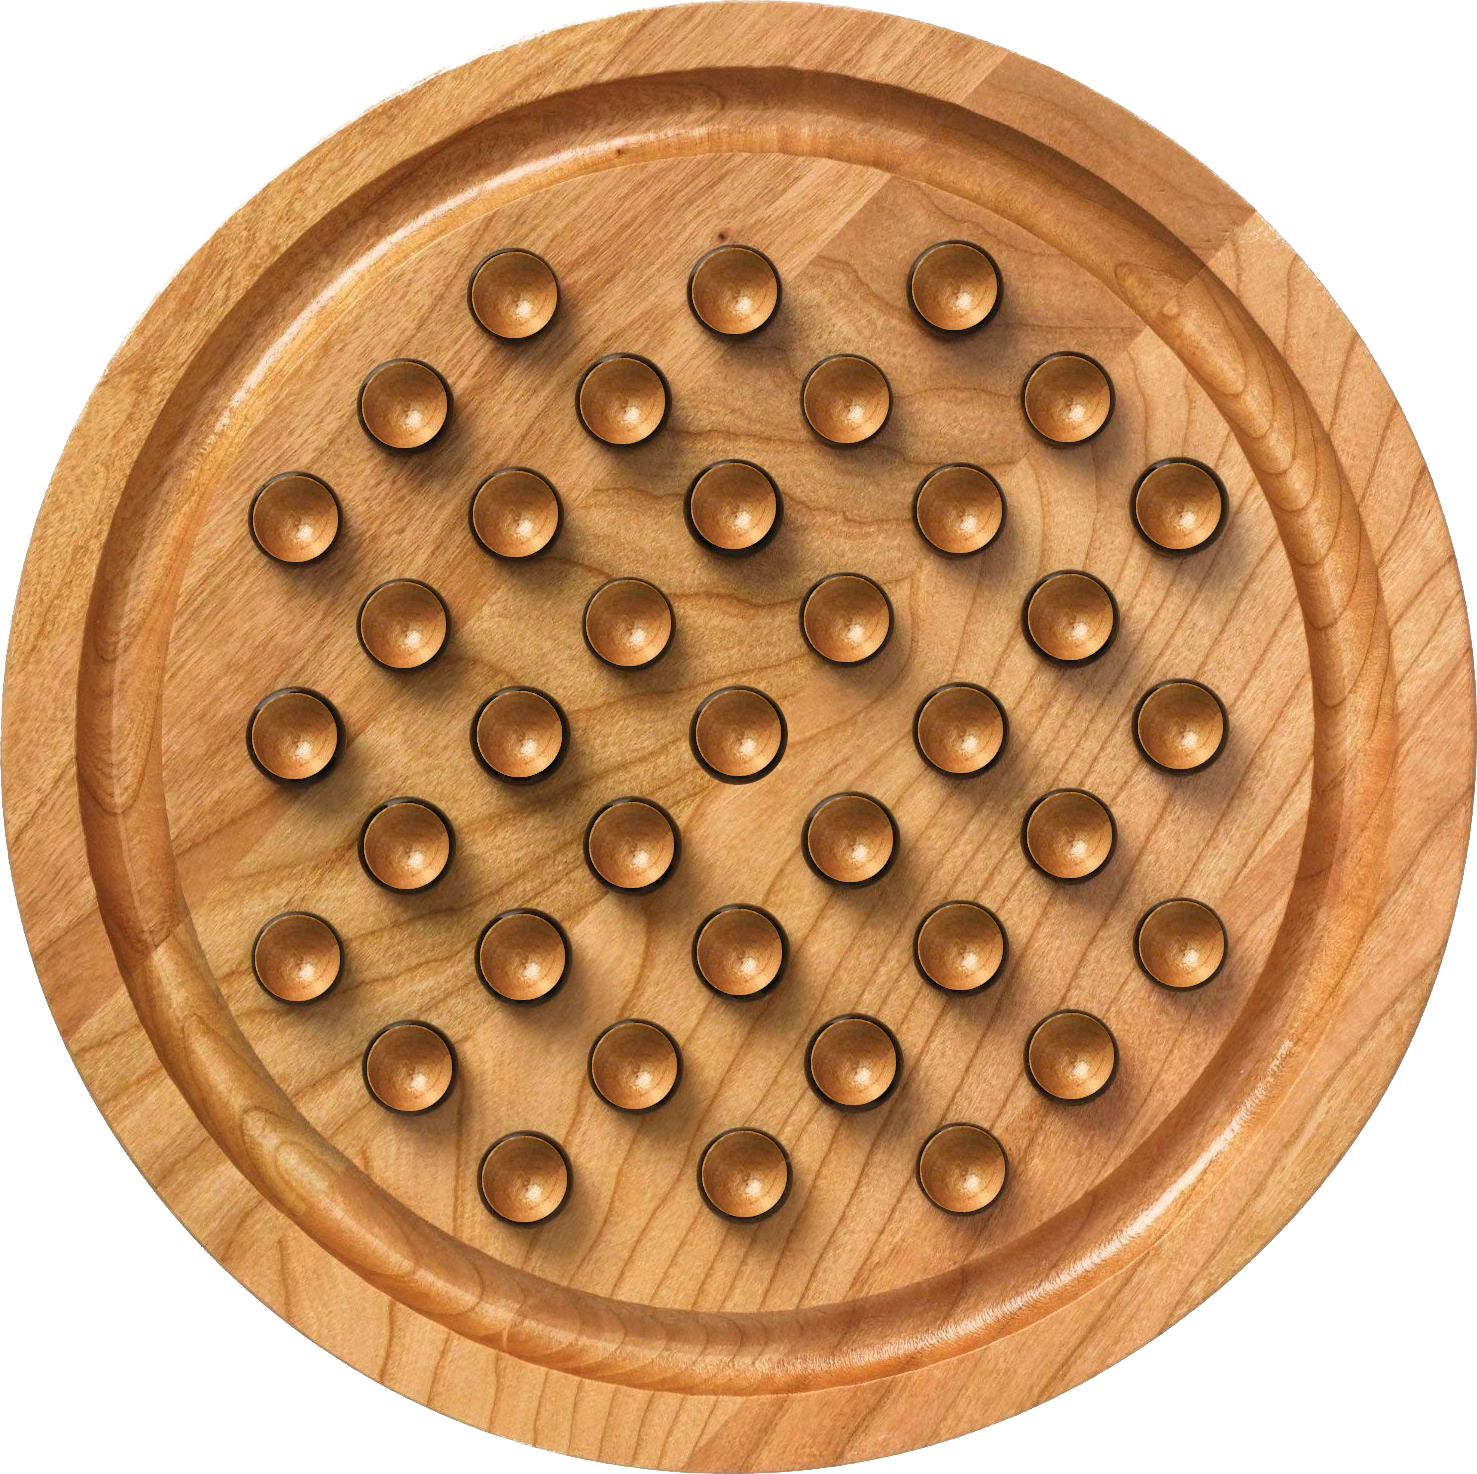
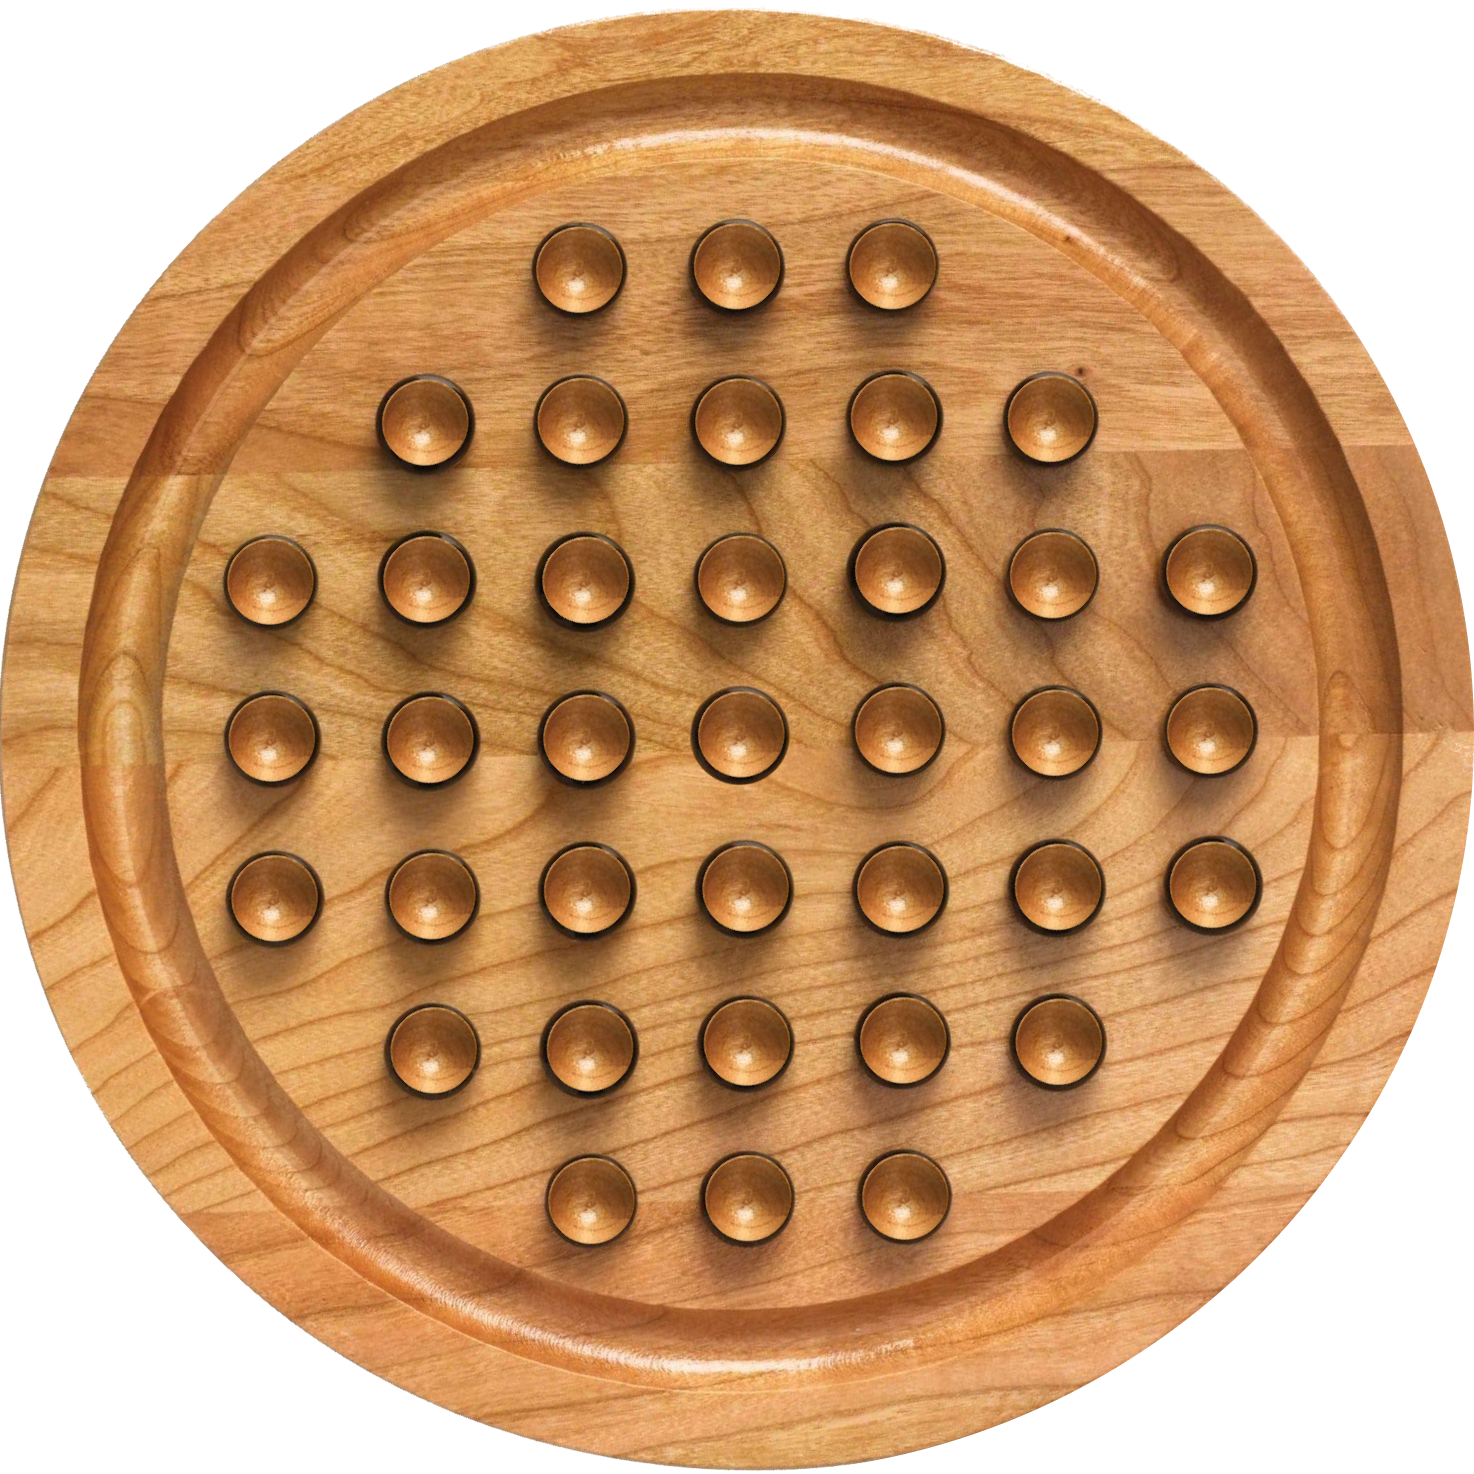
rotate, distance bw holes, button placement done

diff --git a/main.cpp b/main.cpp
@@ -35,14 +35,15 @@ Fl_Shared_Image *open_resize_to(const char *filename, int w, int h)
 class Marble;
 class Board;
 
-class Marble : public Fl_Button
+class Marble : public Fl_Box
 {
     Board *parent;
 
   public:
     int lbl;
+    bool highlight;
     int xpos, ypos;
-    Marble(Board *b, int xp, int yp, int x, int y, int pw, int ph);
+    Marble(Board *b, int xp, int yp, int x, int y);
     int handle(int);
 };
 
@@ -52,7 +53,7 @@ class Board : Fl_Box
         {0, 0, 1, 1, 1, 0, 0},
         {0, 1, 1, 1, 1, 1, 0},
         {1, 1, 1, 1, 1, 1, 1},
-        {1, 1, 1, 1, 1, 1, 1},
+        {1, 1, 1, 0, 1, 1, 1},
         {1, 1, 1, 1, 1, 1, 1},
         {0, 1, 1, 1, 1, 1, 0},
         {0, 0, 1, 1, 1, 0, 0},
@@ -66,6 +67,7 @@ class Board : Fl_Box
   public:
     int size;
     int n_steps;
+    bool highlight;
     Board(int, int, int, int);
     int move(int, int, int);
     void randomize();
@@ -73,10 +75,10 @@ class Board : Fl_Box
     ~Board();
 };
 
-Marble::Marble(Board *b, int xp, int yp, int x, int y, int pw, int ph) : 
-    Fl_Button(x, y, pw, ph, "I'm a Margble")
+Marble::Marble(Board *b, int xp, int yp, int x, int y) : 
+    Fl_Box(x, y, MARBLE_SIZE_W, MARBLE_SIZE_H)
 {
-
+    image(open_resize_to(marble, MARBLE_SIZE_W, MARBLE_SIZE_H));
     parent = b;
     xpos = xp;
     ypos = yp;
@@ -100,7 +102,7 @@ Board::Board(int x0, int y0, int pw, int ph) :
     for (int i = 0; i < 7; i++) {
         for (int j = 0; j < 7; j++) {
             if (board_structure[i][j]) {
-                marbles[i][j] = new Marble(this, i, j, x0 + pw/2, y0 + ph/2, 20, 20);
+                marbles[i][j] = new Marble(this, i, j, x0 + OFFSET_W + i * DISTANCE_BETWEEN_HOLECENTERS_W, y0 + OFFSET_H + j * DISTANCE_BETWEEN_HOLECENTERS_H);
             }
             else {
                 marbles[i][j] = NULL;

diff --git a/config.h b/config.h
@@ -6,4 +6,13 @@ int WINDOW_SIZE_H = 786;
 int BOARD_SIZE_W = 700;
 int BOARD_SIZE_H = 700;
 
+int MARBLE_SIZE_W = 50;
+int MARBLE_SIZE_H = 50;
+
+int OFFSET_W = 103;
+int OFFSET_H = 101;
+
+int DISTANCE_BETWEEN_HOLECENTERS_W = 75;
+int DISTANCE_BETWEEN_HOLECENTERS_H = 74;
+
 #endif // MARBLES_CONFIG_H

diff --git a/README.md b/README.md
@@ -1,2 +1,20 @@
 # marble-solitaire
+
 A simple Marble Solitaire game using fltk
+
+## How to compile
+
+```bash
+fltk-config --use-images --compile main.cpp
+```
+
+## TODO
+
+* Rotate the background 45 degrees
+* Figure out the distance between holes
+* Put button at every holes
+* Decision
+  * Two clicks
+  * Drag
+* Then code up the actual working of the game
+* And so on ...
